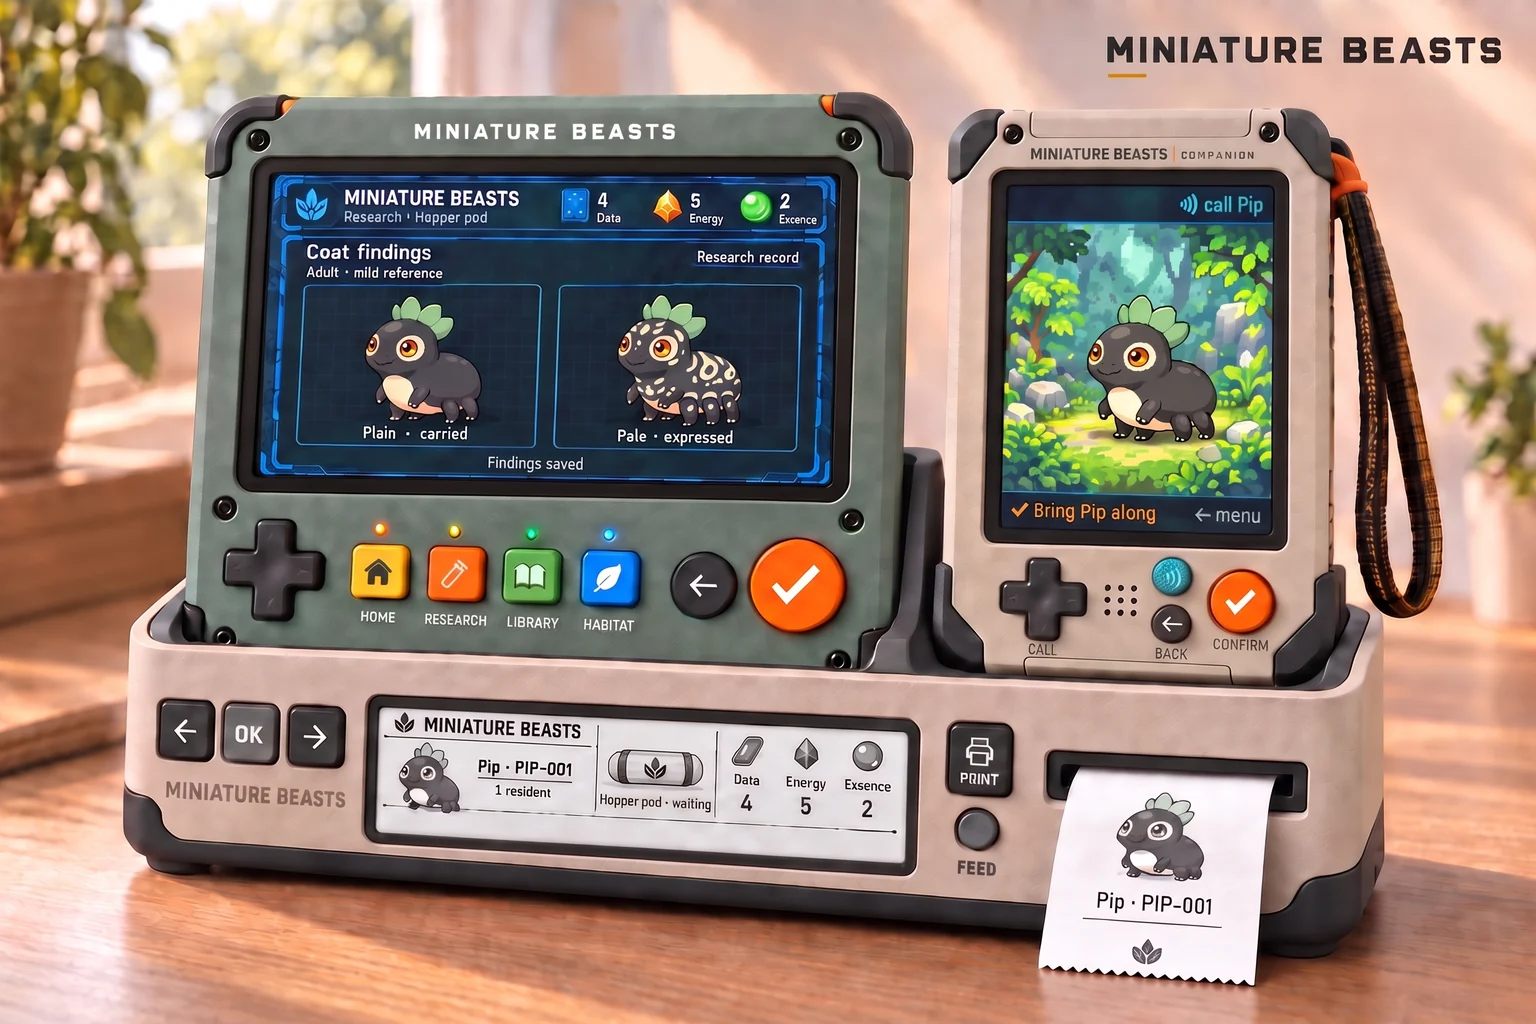
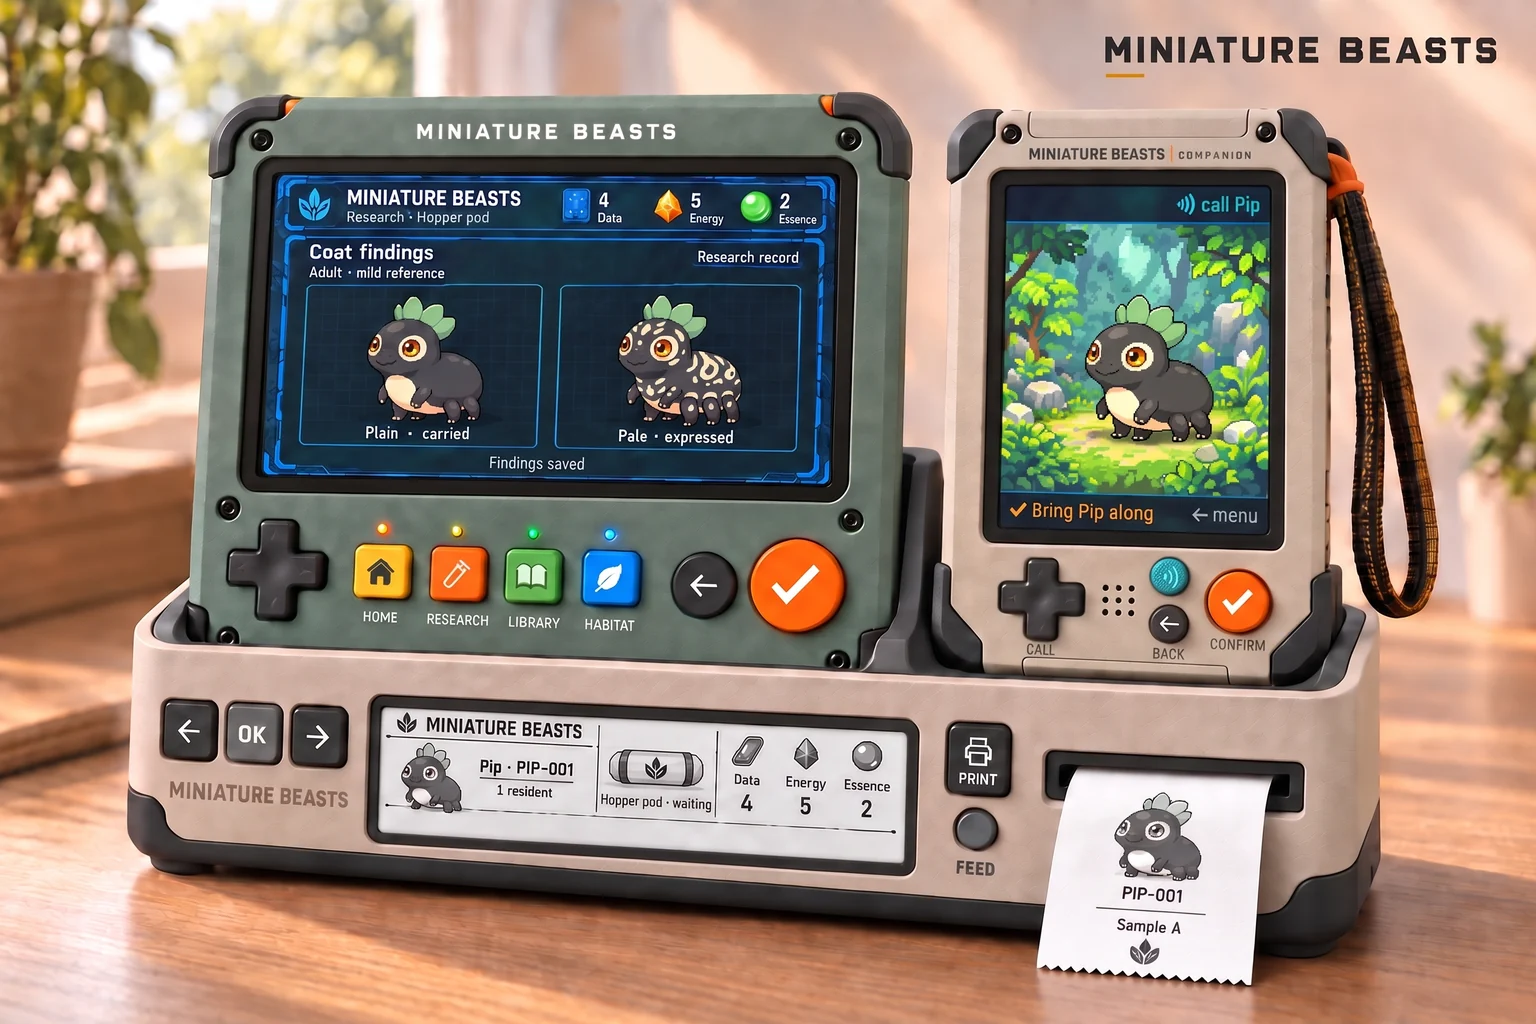
Website: hero from pass B, mobile crop of the e-paper summary

diff --git a/website/index.html b/website/index.html
@@ -1001,7 +1001,7 @@ footer {
       </div>
       <figure class="hero-art">
         <img src="assets/hero-kit.webp" width="1536" height="1024" fetchpriority="high"
-             alt="Concept render of the kit on a wooden table: a grey-green Station showing research on a Hopper pod beside Pip, a cream Companion showing Pip in a pixel-art clearing, both docked in a Caddy whose small grey e-paper screen lists counts and whose printer feeds out a paper card reading Pip · PIP-001.">
+             alt="Concept render of the kit on a wooden table: a grey-green Station whose research screen shows Pip plain beside a pale-marked form, a cream Companion showing Pip in a pixel-art clearing, both docked in a Caddy whose small grey e-paper screen lists counts and whose printer feeds out a paper card of Pip.">
         <figcaption>Concept art · Station, Companion &amp; Caddy · Shapes, buttons and screens will change</figcaption>
       </figure>
     </section>
@@ -1060,8 +1060,11 @@ footer {
             <figcaption><span class="label">Concept art</span>The Caddy prints a mibi’s card</figcaption>
           </figure>
           <figure class="caddy-summary">
-            <img src="assets/caddy-summary-epaper.webp" width="1600" height="479" loading="lazy"
+            <picture>
+              <source media="(max-width: 760px)" srcset="assets/caddy-summary-epaper-small.webp" width="839" height="479">
+              <img src="assets/caddy-summary-epaper.webp" width="1600" height="479" loading="lazy"
               alt="Caddy e-paper summary concept in four greys with dithered shading: Pip · PIP-001 and 1 resident beside a dithered Pip, a sealed Hopper pod marked waiting, and the counts 4, 5 and 2 beside chip, crystal and droplet icons.">
+            </picture>
             <figcaption><span class="label">Concept screen, not from the build</span>Caddy · The four-grey e-paper summary</figcaption>
           </figure>
         </article>
